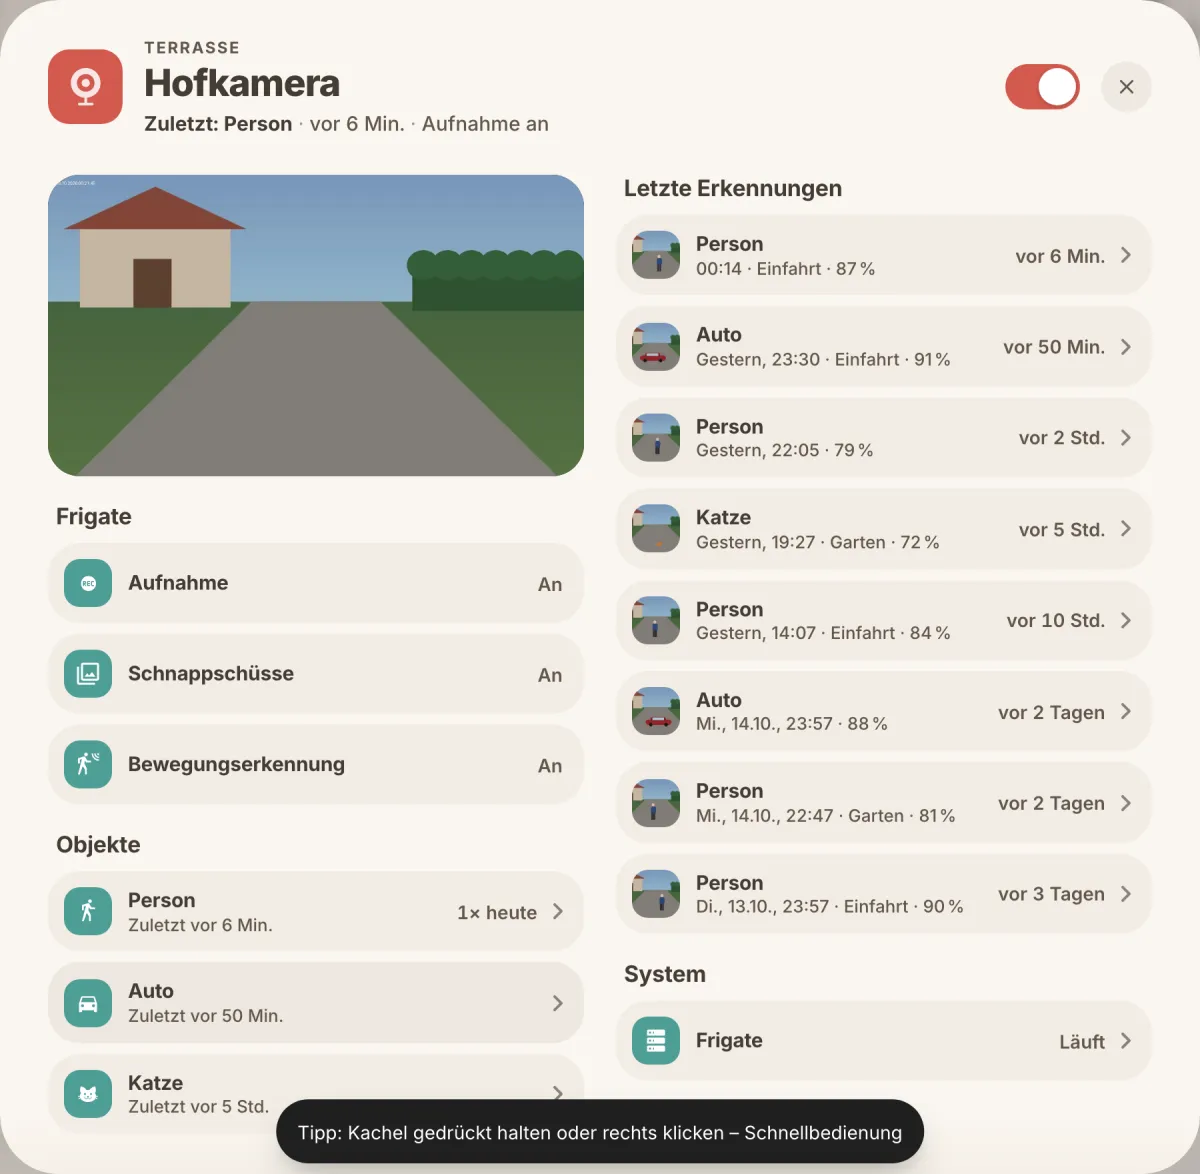
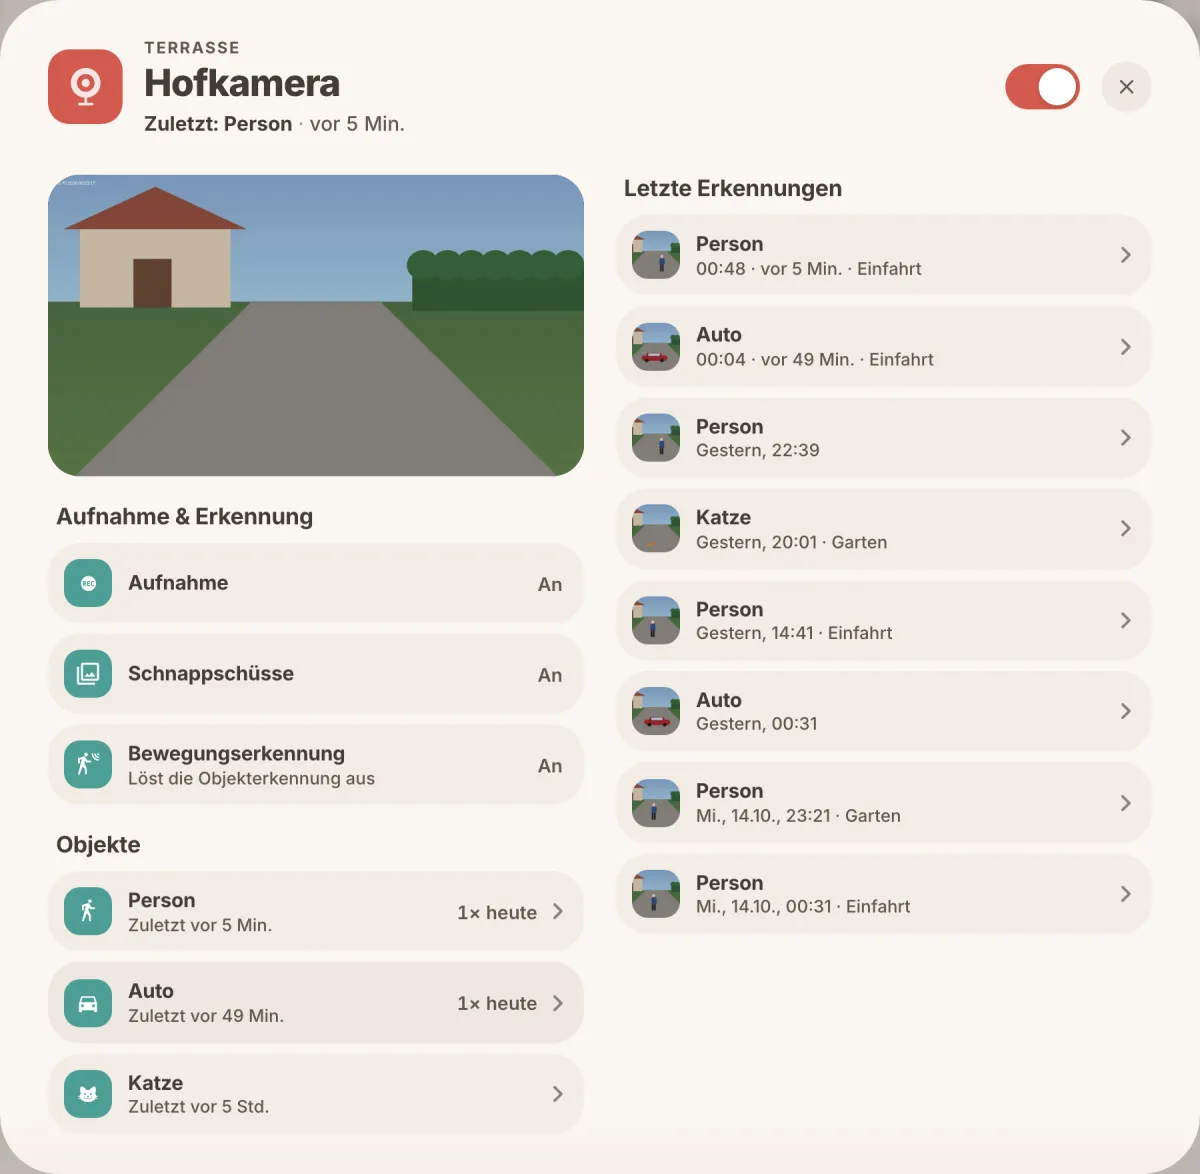
Frigate-Karte, zweite Prüfrunde: „Läuft“ in Schrift-Rot (alertTone nimmt feste Farben), Mehr/Alle als Pille, Blättern mit Vorschaubild, Kopf ohne „Aufnahme an“, Kachel immer mit „vor“, Filter springt am Handy zur Liste; Regressionstest r273

diff --git a/custom_components/casora/scripts/local/23-frigate.js b/custom_components/casora/scripts/local/23-frigate.js
@@ -165,7 +165,7 @@
   F.ago = function (ms, now, short) {
     var m = Math.max(0, Math.floor(((now || Date.now()) - ms) / 60000));
     var pre = short ? '' : 'vor\u00a0';
-    if (m < 1) return short ? 'jetzt' : 'gerade eben';
+    if (m < 1) return short ? 'jetzt' : 'gerade\u00a0eben';
     if (m < 60) return pre + m + '\u00a0Min.';
     var d = window.casoraDaysAgo ? window.casoraDaysAgo(m) : Math.floor(m / 1440);
     if (m < 1440 || d < 1) return pre + Math.round(m / 60) + '\u00a0Std.';
@@ -182,7 +182,8 @@
     if (s.detectOff) return 'Erkennung aus';
     if (s.live.length) return short && s.live.length > 1 ? s.live.length + ' Objekte erkannt' : who(s.live);
     // Komma statt „ · “: casoraStateFit kürzt an „ · “ zu „Person +1“ (las sich wie „noch ein Objekt“).
-    if (s.last && (now || Date.now()) - s.last.at < 86400000) return F.label(s.last.o) + ', ' + F.ago(s.last.at, now, short);
+    // Auch schmal mit „vor“: „Auto, 1 Min.“ las sich wie eine Dauer (Nutzerprüfung Runde 2).
+    if (s.last && (now || Date.now()) - s.last.at < 86400000) return F.label(s.last.o) + ', ' + F.ago(s.last.at, now);
     return null;
   };
   F.of = function (entity, hass, states) {
@@ -348,9 +349,9 @@
       var rows = [];
       if (e.zones.length) rows.push({ icon: 'mdi:vector-square', iconTone: 'accent', label: 'Zonen', value: e.zones.map(zoneName).join(', ') });
       var nav = [];
-      if (at > 0) nav.push({ icon: 'mdi:chevron-up', iconTone: 'accent', label: 'Neuere Erkennung', sub: F.label(all[at - 1].o) + ' · ' + stamp(all[at - 1].start),
+      if (at > 0) nav.push({ image: all[at - 1].thumb || '', imageFit: 'cover', label: 'Neuere Erkennung', sub: F.label(all[at - 1].o) + ' · ' + stamp(all[at - 1].start),
         entity: 'frigate-ev:' + cam + '|' + all[at - 1].id + '|' + (back ? 'b' : '') });
-      if (at >= 0 && at < all.length - 1) nav.push({ icon: 'mdi:chevron-down', iconTone: 'accent', label: 'Ältere Erkennung', sub: F.label(all[at + 1].o) + ' · ' + stamp(all[at + 1].start),
+      if (at >= 0 && at < all.length - 1) nav.push({ image: all[at + 1].thumb || '', imageFit: 'cover', label: 'Ältere Erkennung', sub: F.label(all[at + 1].o) + ' · ' + stamp(all[at + 1].start),
         entity: 'frigate-ev:' + cam + '|' + all[at + 1].id + '|' + (back ? 'b' : '') });
       // Clip mit dem Schnappschuss als Vorschaubild; ohne Clip (oder wenn er nicht lädt) nur der Schnappschuss.
       var media = '<div style="position:relative;width:100%;aspect-ratio:16/9;border-radius:var(--casora-popup-row-radius, 24px);overflow:hidden;background:#000;">'
@@ -400,7 +401,12 @@
     // Blättern im Detail: dasselbe „zurück“ wie das erste Detail (nicht Detail für Detail zurück).
     if (m[1] === 'ev') return F.detail(p[0], p[1], p[2] === 'b' ? lastBack : (p.length > 2 ? null : backHere()));
     if (m[1] === 'img') return F.snapshot(m[2], backHere());
-    if (m[1] === 'flt') { flt[p[0]] = flt[p[0]] === p[1] || !p[1] ? null : p[1]; more[p[0]] = false; redraw(p[0]); return true; }
+    if (m[1] === 'flt') {
+      flt[p[0]] = flt[p[0]] === p[1] || !p[1] ? null : p[1]; more[p[0]] = false; redraw(p[0]);
+      // Am Handy steht die Liste über „Objekte“: nach dem Filtern dorthin, sonst sah man die gefilterte Liste nicht.
+      if (window.innerWidth <= 760) setTimeout(function () { var w = (els[p[0]] || []).filter(function (x) { return x.isConnected; })[0]; if (w && w.scrollIntoView) w.scrollIntoView({ block: 'start', behavior: 'smooth' }); }, 120);
+      return true;
+    }
     if (m[1] === 'more') { more[p[0]] = !more[p[0]]; redraw(p[0]); return true; }
     var w = m[2];
     go(/^https?:\/\//.test(w) ? { url: w } : { path: w });
@@ -451,6 +457,13 @@
       narrowOrder: ['live', 'ctl', 'ev', 'objs', 'sys'] });
   };
 
+  var pill = function (text, mid) {
+    return '<div role="button" tabindex="0" data-casora-mi="' + esc(mid) + '" style="box-sizing:border-box;width:100%;margin-top:10px;height:46px;min-height:46px;'
+      + 'border-radius:999px;display:flex;align-items:center;justify-content:center;font-family:var(--primary-font-family, system-ui);font-size:14px;font-weight:700;'
+      + 'cursor:pointer;background:var(--casora-soft-mehr-fill, var(--casora-soft-control-fill, rgba(140,115,90,0.10)));'
+      + 'color:var(--casora-soft-mehr-ink, var(--casora-popup-tiles-text-primary, #3A322B));">'
+      + '<span style="pointer-events:none;">' + esc(T(text)) + '</span></div>';
+  };
   var swRow = function (S, id, icon, label, ask) {
     if (!id || !S[id] || S[id].state === 'unavailable') return null;
     var isOn = S[id].state === 'on';
@@ -471,7 +484,8 @@
       else if (s.live.length) { main = who(s.live); tone = 'bad'; }
       else if (s.last) { main = 'Zuletzt: ' + F.label(s.last.o); rest.push(F.ago(s.last.at, now)); }
       else main = 'Keine Erkennung';
-      if (!s.dead && s.rec != null) rest.push(s.rec ? 'Aufnahme\u00a0an' : 'Aufnahme\u00a0aus');
+      // Nur die Ausnahme: „Aufnahme aus“ (an ist der Normalfall; am Handy brach der Kopf sonst dreizeilig um).
+      if (!s.dead && s.rec === false) rest.push('Aufnahme\u00a0aus');
       if (s.server && s.server !== 'running' && !bad(s.server)) rest.push(s.server === 'starting' ? 'Frigate startet' : 'Frigate meldet Fehler');
       return UI.line(main, rest, { tone: tone });
     }
@@ -496,7 +510,7 @@
         // Antippen filtert „Letzte Erkennungen“ auf dieses Objekt (noch einmal: alle); ohne Liste der letzte Schnappschuss.
         var tap = ev && ev.length ? 'frigate-flt:' + c.cam + '|' + o : (img && S[img] && S[img].attributes.entity_picture && x.at ? 'frigate-img:' + img : null);
         return { icon: F.icon(o), iconTone: x.live ? 'bad' : x.at ? 'accent' : null, label: F.label(o), sub: sub,
-          active: !!x.live, selected: flt[c.cam] === o, value: today ? today + '× heute' : null, entity: tap };
+          selected: flt[c.cam] === o, value: today ? today + '× heute' : null, entity: tap };
       });
       return UI.group(orows, 'Objekte');
     }
@@ -517,17 +531,17 @@
         var erows = list.slice(0, max).map(function (e) {
           var dw = dayWord(e.start, now);
           // Treffer-Prozent nur im Detail – am Handy verdrängte es die Zone.
-          var sub = [dw ? dw + ', ' + clock(e.start) : clock(e.start) + ' (' + F.ago(e.start, now) + ')'];
+          var sub = dw ? [dw + ', ' + clock(e.start)] : [clock(e.start), F.ago(e.start, now)];
           if (e.zones.length) sub.push(e.zones.map(zoneName).join(', '));
           return { image: e.thumb || '', imageFit: 'cover', iconTone: null, label: F.label(e.o) + (e.sub ? ' · ' + e.sub : ''),
             // Rechts nur „Läuft“ (Schrift-Rot, 4,9 : 1) – die Zeit steht schon in der Unterzeile (Handy schnitt sonst die Zone ab).
-            sub: sub.join(' · '), value: e.end == null ? 'Läuft' : null, valueTone: e.end == null ? 'var(--casora-color-red-text, #A8443A)' : null,
+            sub: sub.join(' · '), value: e.end == null ? 'Läuft' : null, valueTone: e.end == null ? 'var(--casora-color-red-text, var(--casora-color-red))' : null,
             entity: 'frigate-ev:' + c.cam + '|' + e.id };
         });
-        if (list.length > 8) erows.push({ icon: more[c.cam] ? 'mdi:chevron-up' : 'mdi:chevron-down', iconTone: 'accent',
-          label: more[c.cam] ? 'Weniger anzeigen' : 'Mehr anzeigen', entity: 'frigate-more:' + c.cam });
-        if (flt[c.cam]) erows.push({ icon: 'mdi:filter-remove-outline', iconTone: 'accent', label: 'Alle Objekte zeigen', entity: 'frigate-flt:' + c.cam + '|' });
         out = UI.group(erows, head);
+        // „Mehr anzeigen“ / „Alle Objekte zeigen“ als Pille unter der Liste wie „Ganzer Verlauf“ im Mähroboter-Popup.
+        if (list.length > 8) out += pill(more[c.cam] ? 'Weniger anzeigen' : 'Mehr anzeigen', 'frigate-more:' + c.cam);
+        if (flt[c.cam]) out += pill('Alle Objekte zeigen', 'frigate-flt:' + c.cam + '|');
       }
       // Wege: Aufnahmen in HAs Medien (Frigate-Medienquelle) und die Frigate-Oberfläche.
       var links = [], ui = F.ui(hass, c), media = F.media(hass);

diff --git a/custom_components/casora/scripts/casora-core.js b/custom_components/casora/scripts/casora-core.js
@@ -8162,7 +8162,8 @@ window.casoraMenuGlass = {
   }
 
   // Weich: Farbe nur für Warnung und Fehler (B-16), „gut“/Akzent bleiben neutral.
-  function alertTone(t) { return (t === 'warn' || t === 'bad') ? tone(t) : null; }
+  // Auch eine feste Farbe (var(…)/#…), z. B. Schrift-Rot --casora-color-red-text für „Läuft“ (Frigate, 4,9 : 1).
+  function alertTone(t) { return (t === 'warn' || t === 'bad') ? tone(t) : (typeof t === 'string' && /^(var\(|#)/.test(t) ? t : null); }
 
   // Statuszeile: Zustand fett und dunkel, Rest gedämpft, dicht unter dem Titel.
   // rest: Texte oder { text, tone } (Ton nur für Warnung/Fehler).
